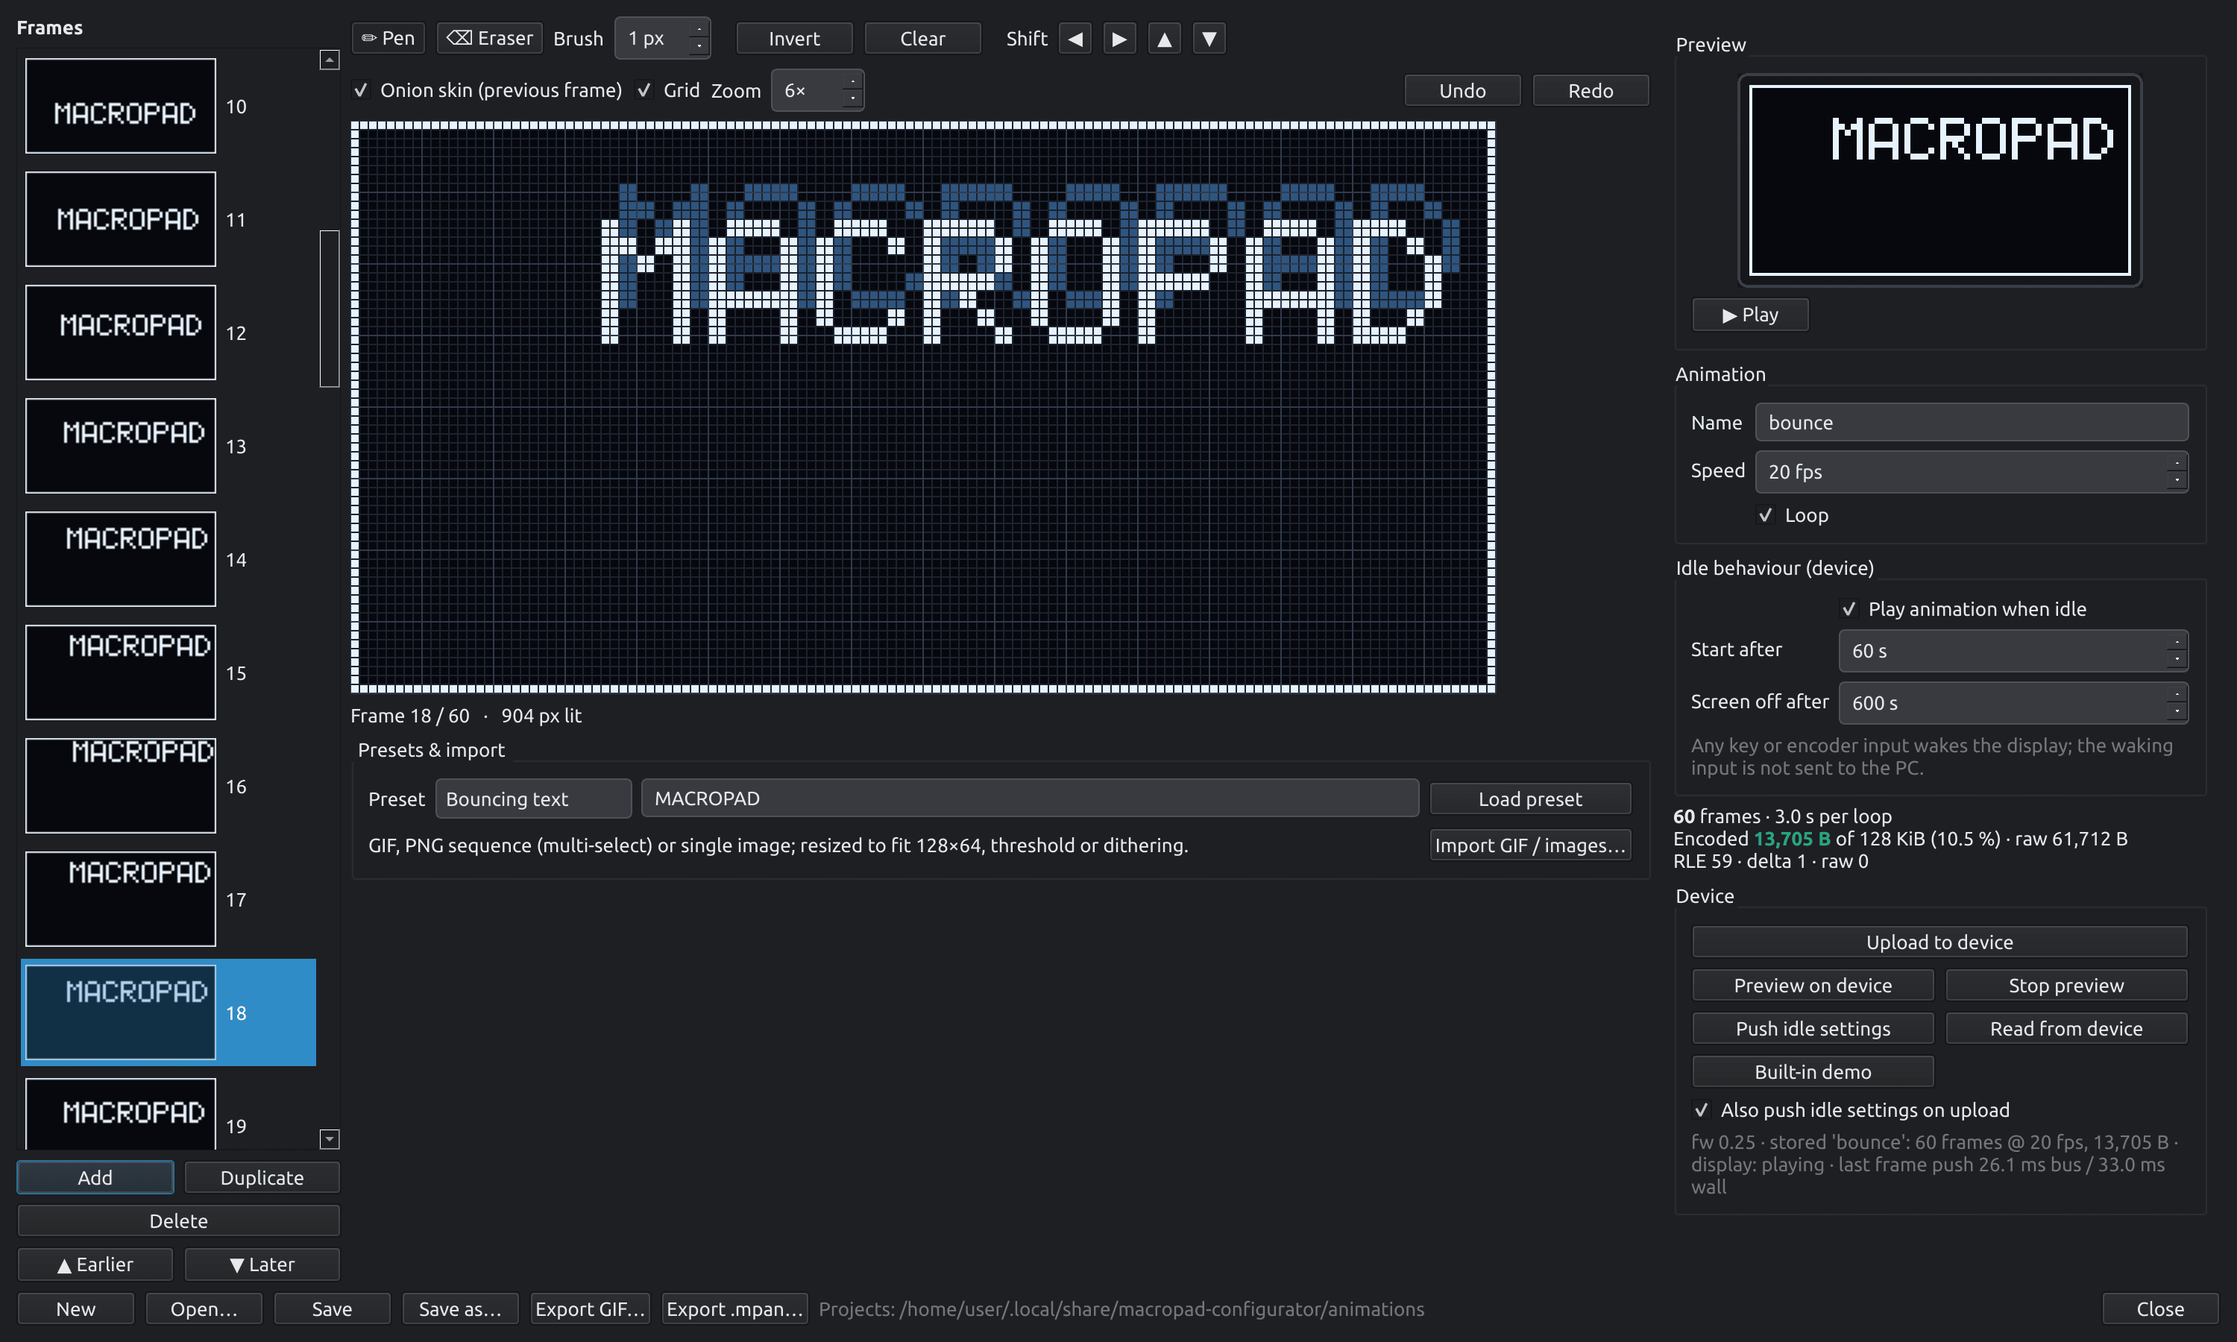
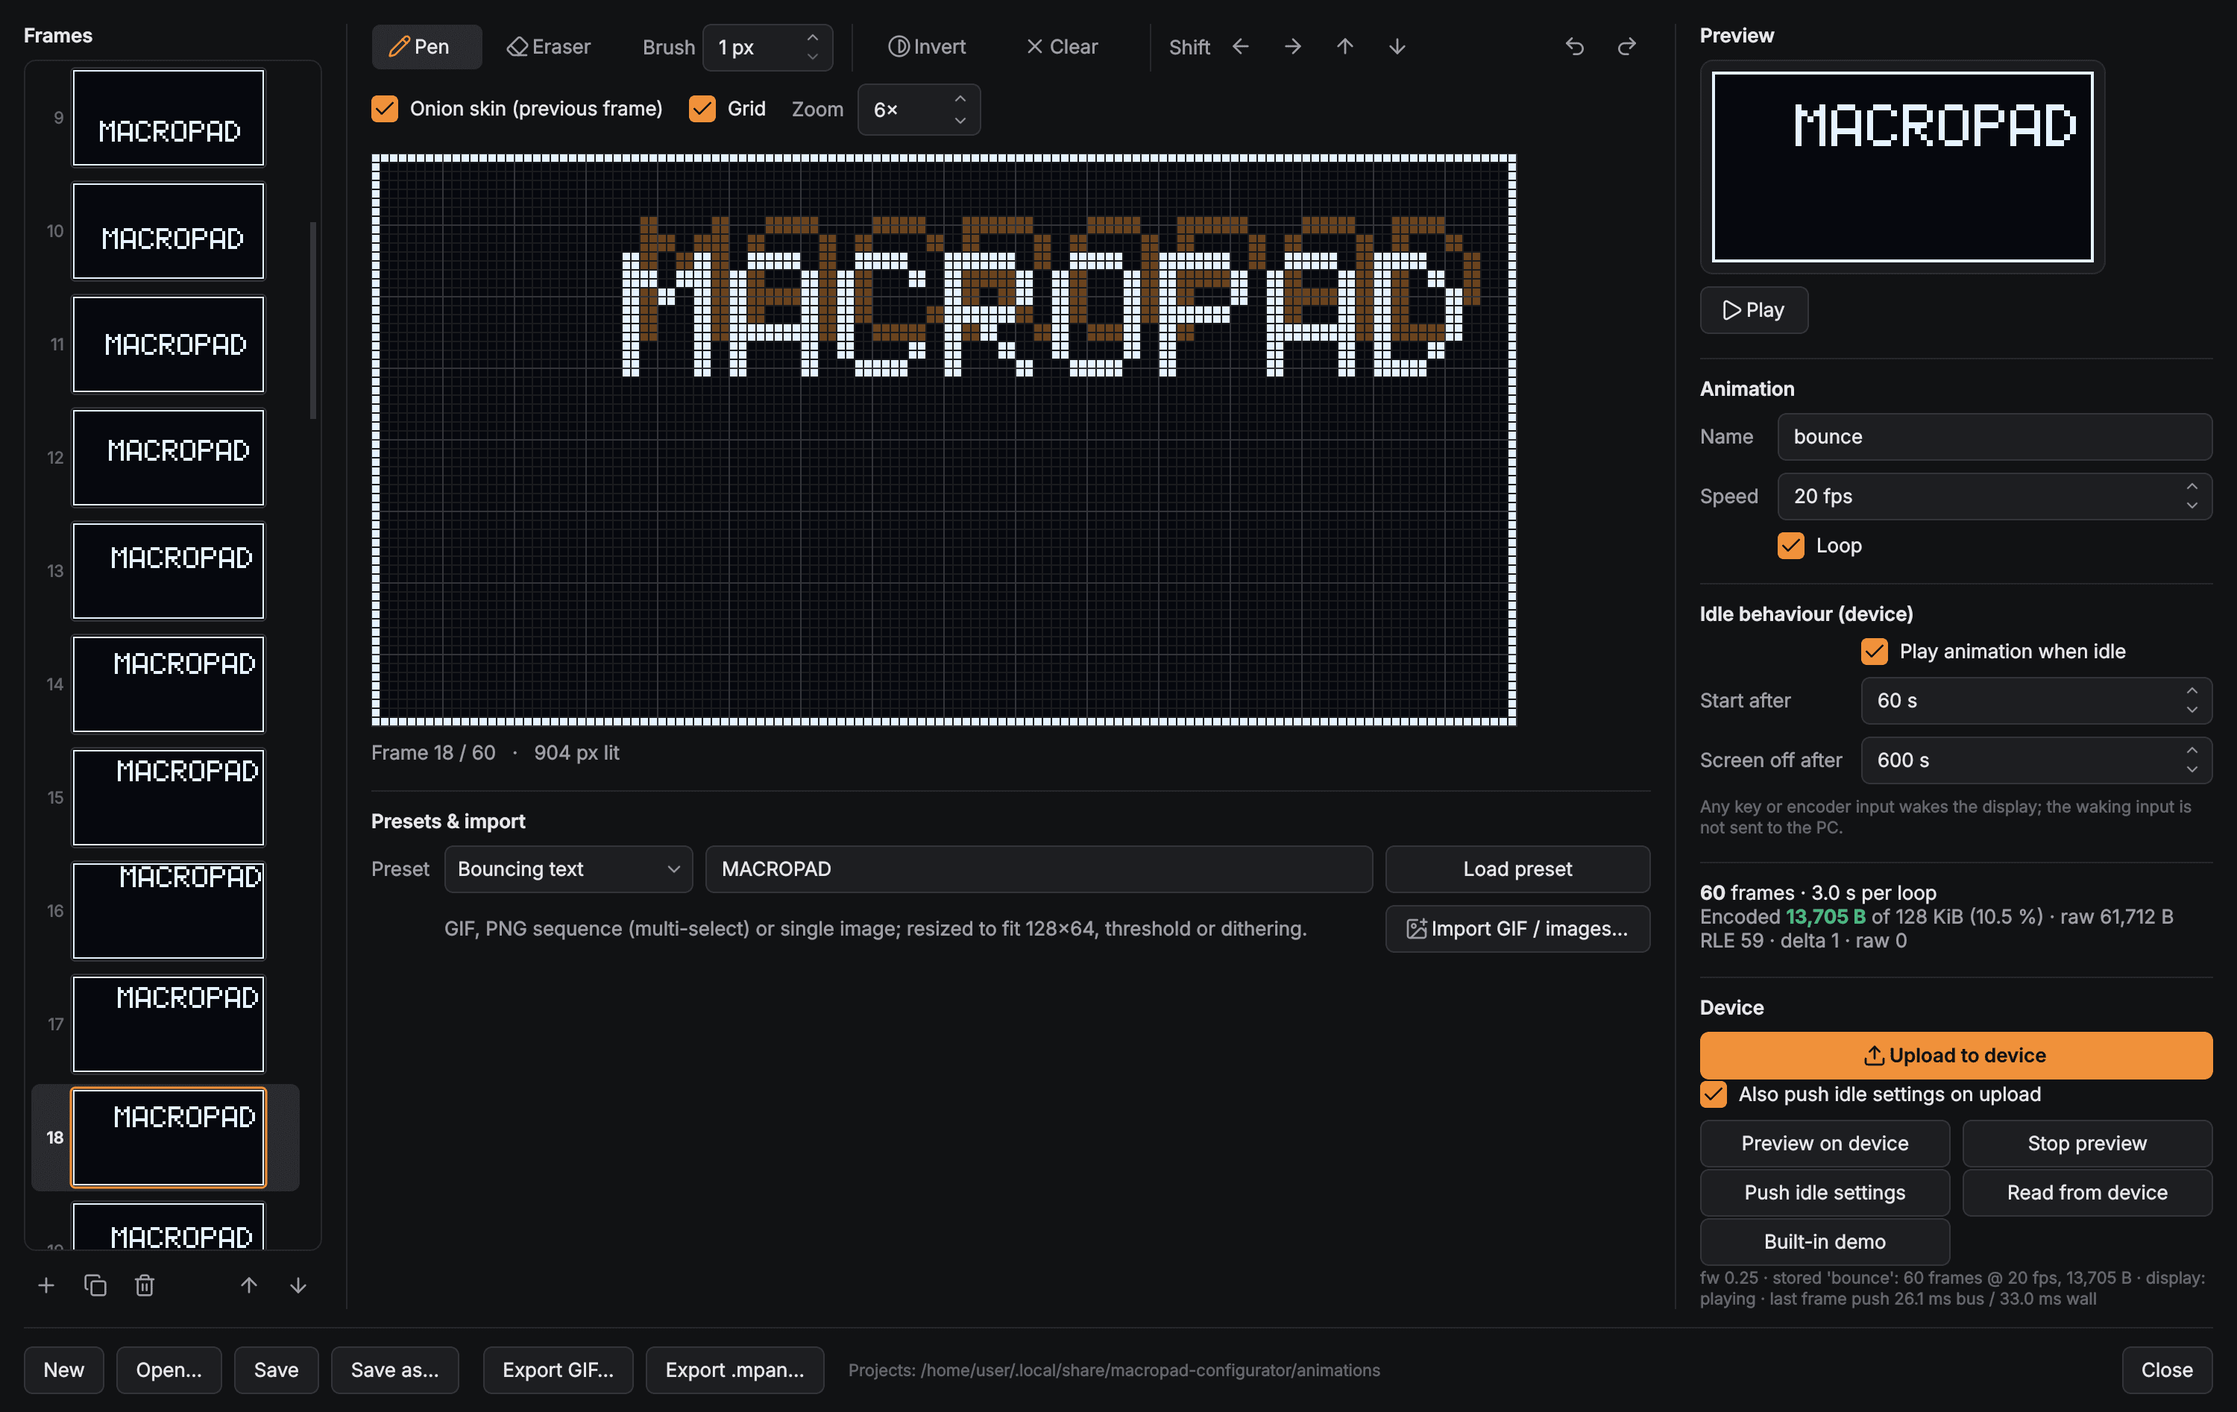
Docs: refresh screenshots and describe the new configurator layout
- docs/images/: new dark-theme shots plus main-window-light.png; README
  gallery row for the light theme.
- USER_GUIDE, TROUBLESHOOTING, ANIMATION, configurator README: drawn device,
  inspector, toolbar Connect / Upload, View > Theme, icon buttons,
  Turn left / Turn right encoder slot names, Play / Pause, OLED title.
- configurator README: theme section, smoke_theme in the smoke list (15).
- CHANGELOG Unreleased entry.

diff --git a/docs/USER_GUIDE.md b/docs/USER_GUIDE.md
@@ -89,8 +89,8 @@ goes to the **row** wire.
 
 **Encoder.** The firmware enables internal pull-ups on GP2, GP3 and GP15, so a bare EC11 works
 without resistors (wire its common pin `C` to GND). Power the KY-040 from **3V3, not 5 V**, because the RP2040's pins are not
-5 V tolerant. If the knob turns the wrong way, swap the `CLK` and `DT` wires, or swap the CW
-and CCW actions in the configurator.
+5 V tolerant. If the knob turns the wrong way, swap the `CLK` and `DT` wires, or swap the
+**Turn left** and **Turn right** actions in the configurator.
 
 **OLED.** Power it from 3V3. At boot the firmware probes 0x3C, then 0x3D, and runs the bus at
 400 kHz.
@@ -199,7 +199,8 @@ From source, the app edits the repo's `profiles/`, `macros/library.json` and
      app shows a warning and keeps the upload, save and auto-switch actions disabled until you
      update one side.
    - **Active slot** (0–4) and **slot count** (5).
-3. The status bar keeps the connection summary. Features that need newer firmware than you
+3. The right end of the status bar keeps a quiet summary: a **Connected** pill, the firmware
+   version and the protocol version. Features that need newer firmware than you
    have are greyed out with a tooltip. For example, idle animations need firmware 0.25.
 
 **Help → About** shows the configurator version, the protocol and firmware versions it expects,
@@ -212,7 +213,8 @@ and the schema versions.
 - **Keys** fire their action on press. KEY and SHORTCUT actions are **held** for as long as you
   hold the key, so the OS's own key repeat works. Up to 6 held keys are reported at once, and
   their modifiers combine.
-- **Encoder:** each detent fires the CW or CCW action once, and a short press fires the Press
+- **Encoder:** each detent fires the Turn right (clockwise) or Turn left (counter-clockwise)
+  action once, and a short press fires the Press
   action.
 - **OLED:** shows the active profile's title, plus short pop-ups for key presses ("Key 6"),
   volume ("VOL UP", with an estimated level; the macropad cannot read your real system volume),
@@ -236,17 +238,28 @@ and the schema versions.
 
 The main window has three columns:
 
-- **Left:** the profile list, with New / Duplicate / Delete buttons.
-- **Middle:** an OLED mock-up, the 12 keys (each labelled with its action) and the encoder slots
-  **CW**, **CCW**, **Press** and **Long**.
-- **Right:** the profile's **Name** and **OLED** title, the **action editor**, and a read-only
-  JSON view of the selected action.
+- **Left:** the profile list. Each row shows the profile name and id, plus a **Slot N** badge
+  when the configurator knows which device slot holds it; the active slot has an accent dot.
+  The **+**, copy and trash icons above the list create, duplicate and delete profiles.
+- **Middle:** a drawing of the macropad: the OLED (showing the profile's idle title), the knob
+  and the 12 keycaps, each labelled with its action. Below it are the four encoder slots
+  **Turn left**, **Turn right**, **Press** and **Hold** (hold = long press).
+- **Right:** the inspector: the profile's **Name** and **OLED title**, the selected key or slot
+  with its **action editor**, and a read-only JSON view of the action.
 
-Click a key or encoder slot, then pick a **Type**. Only the fields that type uses are shown.
+Click a keycap, the knob or an encoder slot (or move between keys with the arrow keys), then
+pick a **Type**. Only the fields that type uses are shown.
 Changes apply to the profile in memory straight away and the status bar says *Modified*.
 **File → Save** (`Ctrl+S`) writes the current profile to disk and **File → Save All**
 (`Ctrl+Shift+S`) writes every changed profile. To put changes on the macropad, use
-**Device → Upload profile to device…** (see [Profiles](#profiles)).
+**Device → Upload profile to device…** or the **Upload** button in the toolbar (see
+[Profiles](#profiles)).
+
+The toolbar also has Save, the macro library, the idle animation editor, auto-switch rules,
+**Connect**, and a sun / moon button that flips between the dark and light theme.
+**View → Theme** chooses **Match system** (the default), **Dark** or **Light**; the choice is
+remembered. **View → Toggle dark / light** (`Ctrl+Shift+L`) does the same as the toolbar
+button.
 
 ![Action editor: SHORTCUT, MACRO and MEDIA](images/action-editor.png)
 
@@ -304,10 +317,10 @@ profiles on your computer (one JSON file each) and you choose which five go onto
 
 | Task | How |
 |------|-----|
-| New profile | **Profile → New…** (`Ctrl+N`) or the **New…** button. Enter a Name; the Id is filled in from it and can be edited. Ids must be unique and match `^[a-z][a-z0-9_]*$`. A new profile has all keys `DISABLED` and the encoder set to volume up / down / mute. |
+| New profile | **Profile → New…** (`Ctrl+N`) or the **+** icon above the profile list. Enter a Name; the Id is filled in from it and can be edited. Ids must be unique and match `^[a-z][a-z0-9_]*$`. A new profile has all keys `DISABLED` and the encoder set to volume up / down / mute. |
 | Duplicate | **Profile → Duplicate…** (`Ctrl+D`): copies the selected profile under a new name and id. |
 | Delete | **Profile → Delete…**: asks first, then removes the JSON file if it was saved. |
-| Rename / OLED title | The **Name** and **OLED** fields on the right. The device stores up to **15 characters** of each. The OLED title is what the macropad shows. |
+| Rename / OLED title | The **Name** and **OLED title** fields on the right. The device stores up to **15 characters** of each. The OLED title is what the macropad shows. |
 | Open another folder | **File → Open profiles folder…** (`Ctrl+O`); **File → Reload** (`Ctrl+R`). |
 | Send to the macropad | **Device → Upload profile to device…** (`Ctrl+Shift+U`) uploads the **selected** profile into the slot (0–4) you pick, and saves it to flash immediately. The suggested slot is the device's active slot, or 0–4 for the bundled ids `default`, `gaming`, `coding`, `browser`, `photoshop`. |
 | Switch profiles | On the device: hold the knob (see [Using the macropad](#using-the-macropad)). From a key: a `PROFILE` action. From the computer: [auto-switch](#auto-switch-rules), which sends `SET_ACTIVE`. |
@@ -326,9 +339,10 @@ out the flash.
 ![Macro library](images/macro-library.png)
 
 **Profile → Macro library…** edits the macro library file (`macros/library.json`). Each macro
-has an **id**, a **name** and a list of **steps**. On the left: New / Duplicate / Delete. On the
-right: the Name, the steps table (Add step / Remove step / Move up / Move down) and a step
-editor that shows only the fields the selected op uses. **Save** writes the file; **Cancel**
+has an **id**, a **name** and a list of **steps**. On the left: the macro list with
+new / duplicate / delete icons. On the right: the Name, the steps table (**Add step**,
+**Remove step**, and up / down arrows to reorder) and a **Selected step** editor that shows only
+the fields the selected op uses. **Save** writes the file; **Cancel**
 asks before discarding changes.
 
 | Op | Fields | Effect |
@@ -382,12 +396,13 @@ the editor tells you which firmware to flash and sends nothing.
 
 ### Making an animation
 
-- **Frames:** the strip on the left. Add, Duplicate (`Ctrl+D`), Delete, ▲ Earlier / ▼ Later or
-  drag to reorder; `[` and `]` step through frames.
+- **Frames:** the thumbnail strip on the left. The icons below it add, duplicate (`Ctrl+D`),
+  delete and move the frame earlier / later (up / down arrows); you can also drag to reorder.
+  `[` and `]` step through frames.
 - **Canvas:** Pen (`P`) and Eraser (`E`); the right mouse button does the opposite. Brush size
-  1–8 px, Invert (`I`), Clear, Shift ◀ ▶ ▲ ▼ (wraps around), onion skin of the previous frame,
+  1–8 px, Invert (`I`), Clear, Shift left / right / up / down (wraps around), onion skin of the previous frame,
   grid, zoom 2–12×, Undo / Redo (`Ctrl+Z` / `Ctrl+Y`).
-- **Preview:** ▶ Play / ■ Pause (`Space`) at the chosen speed.
+- **Preview:** **Play** / **Pause** (`Space`) at the chosen speed.
 - **Presets:** *Starfield (warp)*, *Bouncing text* (default text `MACROPAD`), *Scrolling text*
   (your own text) and *Pulse / breathing*. Pick one, then **Load preset**.
 - **Name:** up to **8 characters**. That is all the device stores.
@@ -417,7 +432,7 @@ the editor tells you which firmware to flash and sends nothing.
 
 ### Sending it to the macropad
 
-Connect first (**Device → Connect / Get device info**), then use the **Device** box in the
+Connect first (**Device → Connect / Get device info**), then use the **Device** section in the
 editor:
 
 - **Upload to device:** shows a progress bar (you can cancel) and verifies the upload by

diff --git a/CHANGELOG.md b/CHANGELOG.md
@@ -16,6 +16,20 @@ and this project adheres to the versioning matrix in [`docs/VERSIONING.md`](docs
   [`docs/TROUBLESHOOTING.md`](docs/TROUBLESHOOTING.md) and a docs index
   [`docs/README.md`](docs/README.md).
 - Screenshot set under `docs/images/` used by the README and the user guide.
+- Configurator **theme system** (`configurator/macropad_config/ui/`): one hand-written QSS
+  template (`theme.qss`) filled from dark (graphite) and light (off-white) palettes in
+  `theme.py`, one amber accent for selection and primary actions, an 8 px spacing grid,
+  6–8 px radii, 1 px dividers instead of group boxes and a system-font type scale. The theme
+  follows the OS light/dark setting; **View → Theme** (*Match system* / *Dark* / *Light*,
+  remembered) and **View → Toggle dark / light** (`Ctrl+Shift+L`, also a toolbar button)
+  override it. `MACROPAD_THEME=dark|light` forces a mode for one run.
+- Monochrome [Lucide](https://lucide.dev) icons (ISC, vendored with their license in
+  `ui/icons/`), recoloured per theme, on flat toolbar and tool buttons.
+- `scripts/smoke_theme.py` (15th smoke): loads the theme in both modes, checks palette parity
+  and text contrast, that every QSS token and icon resolves, and that the main window and every
+  dialog render. `--self-test` also checks the theme and icons.
+- **Device info** and **About** dialogs with a status pill and a key / value layout (they were
+  plain message boxes).
 
 ### Changed
 
@@ -23,6 +37,24 @@ and this project adheres to the versioning matrix in [`docs/VERSIONING.md`](docs
 - Changelog entries describe the changes themselves instead of internal milestone numbers;
   link references now exist only for tagged releases (v0.24.0 and later).
 - Comments and docstrings no longer cite internal milestones.
+- **Configurator UI polish** (visual only; profiles, protocol and behaviour are unchanged):
+  - Main window: the centre is now a drawing of the macropad (OLED idle-screen preview, knob,
+    3 × 4 keycaps with action legends) with the encoder slots shown as *Turn left / Turn right /
+    Press / Hold* chips; click or use the arrow keys to select. The action editor moved into a
+    right-hand inspector under the profile's *Name* / *OLED title*. The profile list shows
+    name + id, a *Slot N* badge and the active device slot. A toolbar holds Save, Macros, Idle
+    animation, Auto-switch rules, the theme toggle, **Connect** and a primary **Upload**
+    button. The status bar shows a connection pill, firmware and protocol version.
+  - Action editor: modifiers are toggle chips (Ctrl / Shift / Alt / Win·Cmd·Super).
+  - Macro library, auto-switch rules, profile and import dialogs: consistent margins, form
+    layout and section headers; tables without grid lines and with 32 px rows; icon buttons
+    for add / remove / move.
+  - Idle animation editor: section headers instead of group boxes, a thumbnail frame strip,
+    icon tool buttons, Play / Pause without glyphs, a primary *Upload to device* button.
+  - The old hard-coded dark stylesheet in `main_window.py` is gone.
+  - The PyInstaller spec bundles `theme.qss` and the icons.
+- Screenshots in `docs/images/` and the README gallery refreshed (plus a light-theme main
+  window); the user guide and configurator README describe the new layout.
 
 ### Fixed
 

diff --git a/README.md b/README.md
@@ -42,6 +42,8 @@ only needed for setup (and for optional automatic profile switching).
 | **Profiles:** create, duplicate, upload to a slot | **Auto-switch rules:** app → profile |
 | ![Device info](docs/images/device-info.png) | ![About](docs/images/about.png) |
 | **Device → Connect:** version handshake | **Help → About** |
+| ![Main window, light theme](docs/images/main-window-light.png) | |
+| **Light theme:** follows the OS, or pick it under **View → Theme** | |
 
 ## Quick start
 
@@ -60,8 +62,9 @@ only needed for setup (and for optional automatic profile switching).
    | macOS 12+ (Apple Silicon / Intel) | `MacropadConfigurator-X.Y.Z-macos-arm64.zip` / `-macos-x86_64.zip` | Move the `.app` to Applications; allow it once under *Privacy & Security* (unsigned) |
    | Linux x86_64 (glibc ≥ 2.35) | `macropad-configurator-X.Y.Z-linux-x86_64.tar.gz` | Extract, `./install.sh` (udev rule), run `MacropadConfigurator/MacropadConfigurator` |
 
-5. **Connect and configure:** use **Device → Connect / Get device info**, edit keys, then
-   **Device → Upload profile to device…**.
+5. **Connect and configure:** click **Connect** in the toolbar (**Device → Connect / Get device
+   info**), click a key on the drawn macropad to edit it, then click **Upload** (**Device →
+   Upload profile to device…**).
 
 Check downloads against `SHA256SUMS.txt`. Firmware `0.N` goes with configurator `0.N.x`.
 

diff --git a/docs/TROUBLESHOOTING.md b/docs/TROUBLESHOOTING.md
@@ -120,7 +120,7 @@ in root's home folder.
 ## Encoder turns the wrong way, or skips or doubles steps
 
 - **Reversed direction:** swap the **CLK** (GP2) and **DT** (GP3) wires, or, without
-  soldering, swap the profile's **CW** and **CCW** actions in the configurator.
+  soldering, swap the profile's **Turn left** and **Turn right** actions in the configurator.
 - **One action every two clicks, or two actions per click:**
   - The firmware turns every **4 valid quadrature transitions** into one step
     (`DETENTS_PER_CLICK` in `firmware/src/encoder.c`), which suits the usual KY-040 / EC11 with
@@ -196,7 +196,7 @@ The version rules are in [VERSIONING.md](VERSIONING.md).
 Please open an issue at <https://github.com/joshua12-5/macropad/issues> and include:
 
 1. The OS and version, and the output of `MacropadConfigurator --version`.
-2. The **Device → Connect / Get device info** text, or a screenshot of it.
+2. A screenshot (or the text) of the **Device → Connect / Get device info** dialog.
 3. A self-test report: `MacropadConfigurator --self-test --report selftest.txt`.
 4. A **hardware-in-the-loop** report from the real device:
 

diff --git a/docs/ANIMATION.md b/docs/ANIMATION.md
@@ -29,7 +29,7 @@ configurator (**Tools → Idle animation…**) and stored in a dedicated flash r
 * **Frames** strip with thumbnails — add, duplicate (Ctrl+D), delete, move earlier/later or drag
   to reorder.
 * **Canvas** — 128×64 pixels at 2–12× zoom with an 8-px page grid. Pen / eraser (P / E), right
-  mouse button does the opposite, brush 1–8 px, invert (I), clear, shift ◀▶▲▼ (wraps), onion
+  mouse button does the opposite, brush 1–8 px, invert (I), clear, shift left / right / up / down (wraps), onion
   skin of the previous frame, undo / redo (Ctrl+Z / Ctrl+Y), `[` / `]` previous / next frame.
 * **Preview** — plays the frames at the chosen fps (Space).
 * **Presets** — generated in Python: *Starfield (warp)*, *Bouncing text* (default `MACROPAD`),
